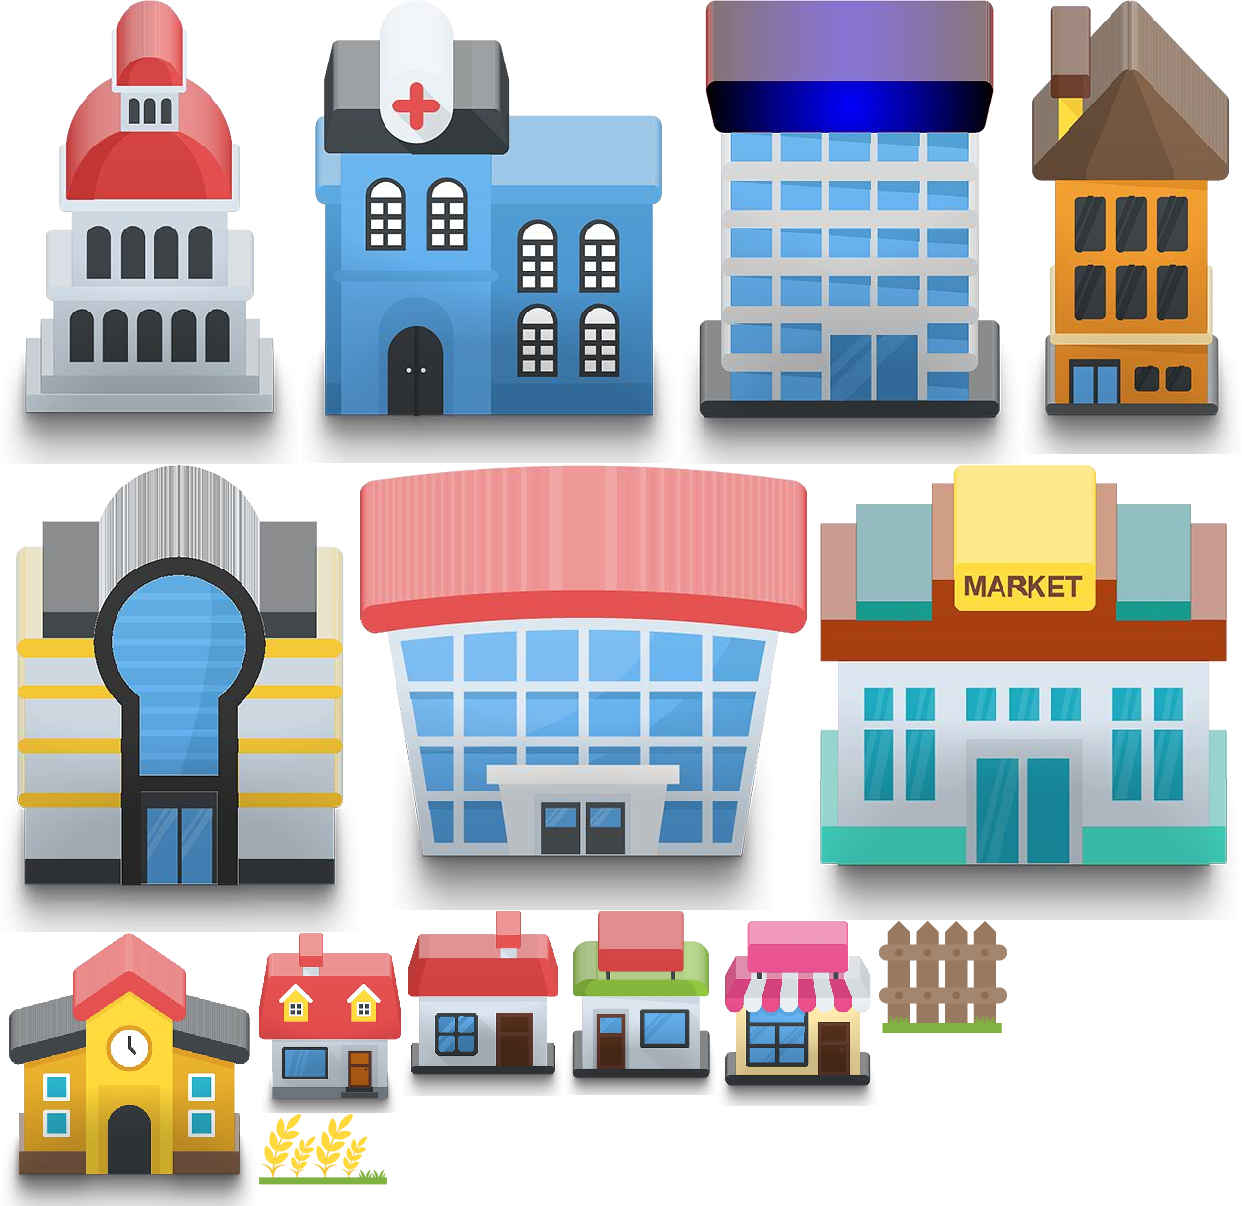
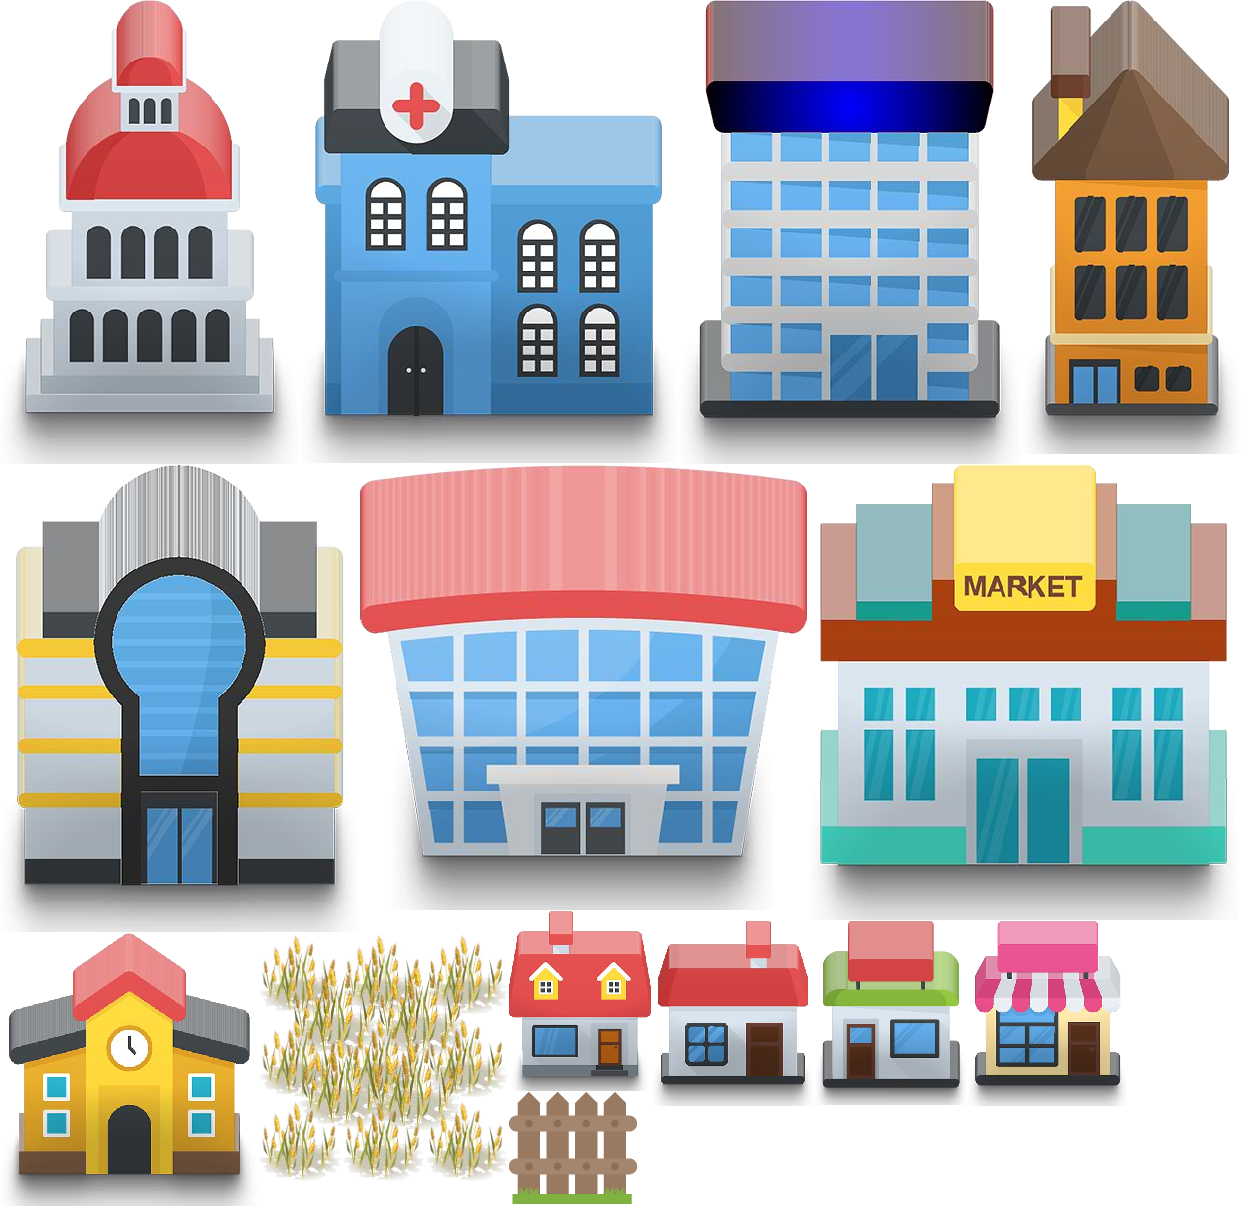
no message

Changed region(s): [[0.1836, 0.7363, 0.9179, 1.0]]

diff --git a/sandBox/src/resident/ResidentLogic.js b/sandBox/src/resident/ResidentLogic.js
@@ -1136,7 +1136,7 @@ export default class ResidentLogic extends Laya.Script {
         let water = this.model.getWater();
         if (water < ResidentMeta.ResidentWaterNeedValue) {
             this.level1Results.push(cell);
-        } else if (water < 90) {
+        } else if (water < 100) {
             this.level2Results.push(cell);
         }
     }
@@ -1162,7 +1162,7 @@ export default class ResidentLogic extends Laya.Script {
         let scocial = this.model.getSocial();
         if (scocial < ResidentMeta.ResidentSocialNeedValue) {
             this.level1Results.push(cell);
-        } else if (RandomMgr.randomYes() && scocial < 90) {
+        } else if (RandomMgr.randomYes() && scocial < 100) {
             this.level2Results.push(cell);
         }
     }
@@ -1221,7 +1221,7 @@ export default class ResidentLogic extends Laya.Script {
     }
 
     processLookForLover() {
-        if (RandomMgr.randomYes(0.9)) {
+        if (RandomMgr.randomYes(0.4)) {
             if (this.model.canAskMarry()) {
                 let home = BuildingMgr.getInstance().getBuildingById(this.model.getMyHomeId());
                 let homeModel = home.buildingScript.getModel();
@@ -1302,9 +1302,7 @@ export default class ResidentLogic extends Laya.Script {
                 }
             }),
         };
-        if (RandomMgr.randomYes()) {
-            this.level2Results.push(cell);
-        }
+        this.level2Results.push(cell);
     }
 
     processHeal() {

diff --git a/sandBox/src/meta/BuildingMeta.js b/sandBox/src/meta/BuildingMeta.js
@@ -130,8 +130,8 @@ BuildingMeta.BuildingDatas = {
     [String(BuildingMeta.BuildingType.FarmLandType)]: {
         prefab: ResourceMeta.FarmLandPrefabPath,
         preview: "source/building/farmland.png",
-        realWidth: 128,
-        realHeight: 128,
+        realWidth: 250,
+        realHeight: 250,
         createBuildingSpeed: 2000,
         useBuildingTime: 5000,
         createPriority: 2,
